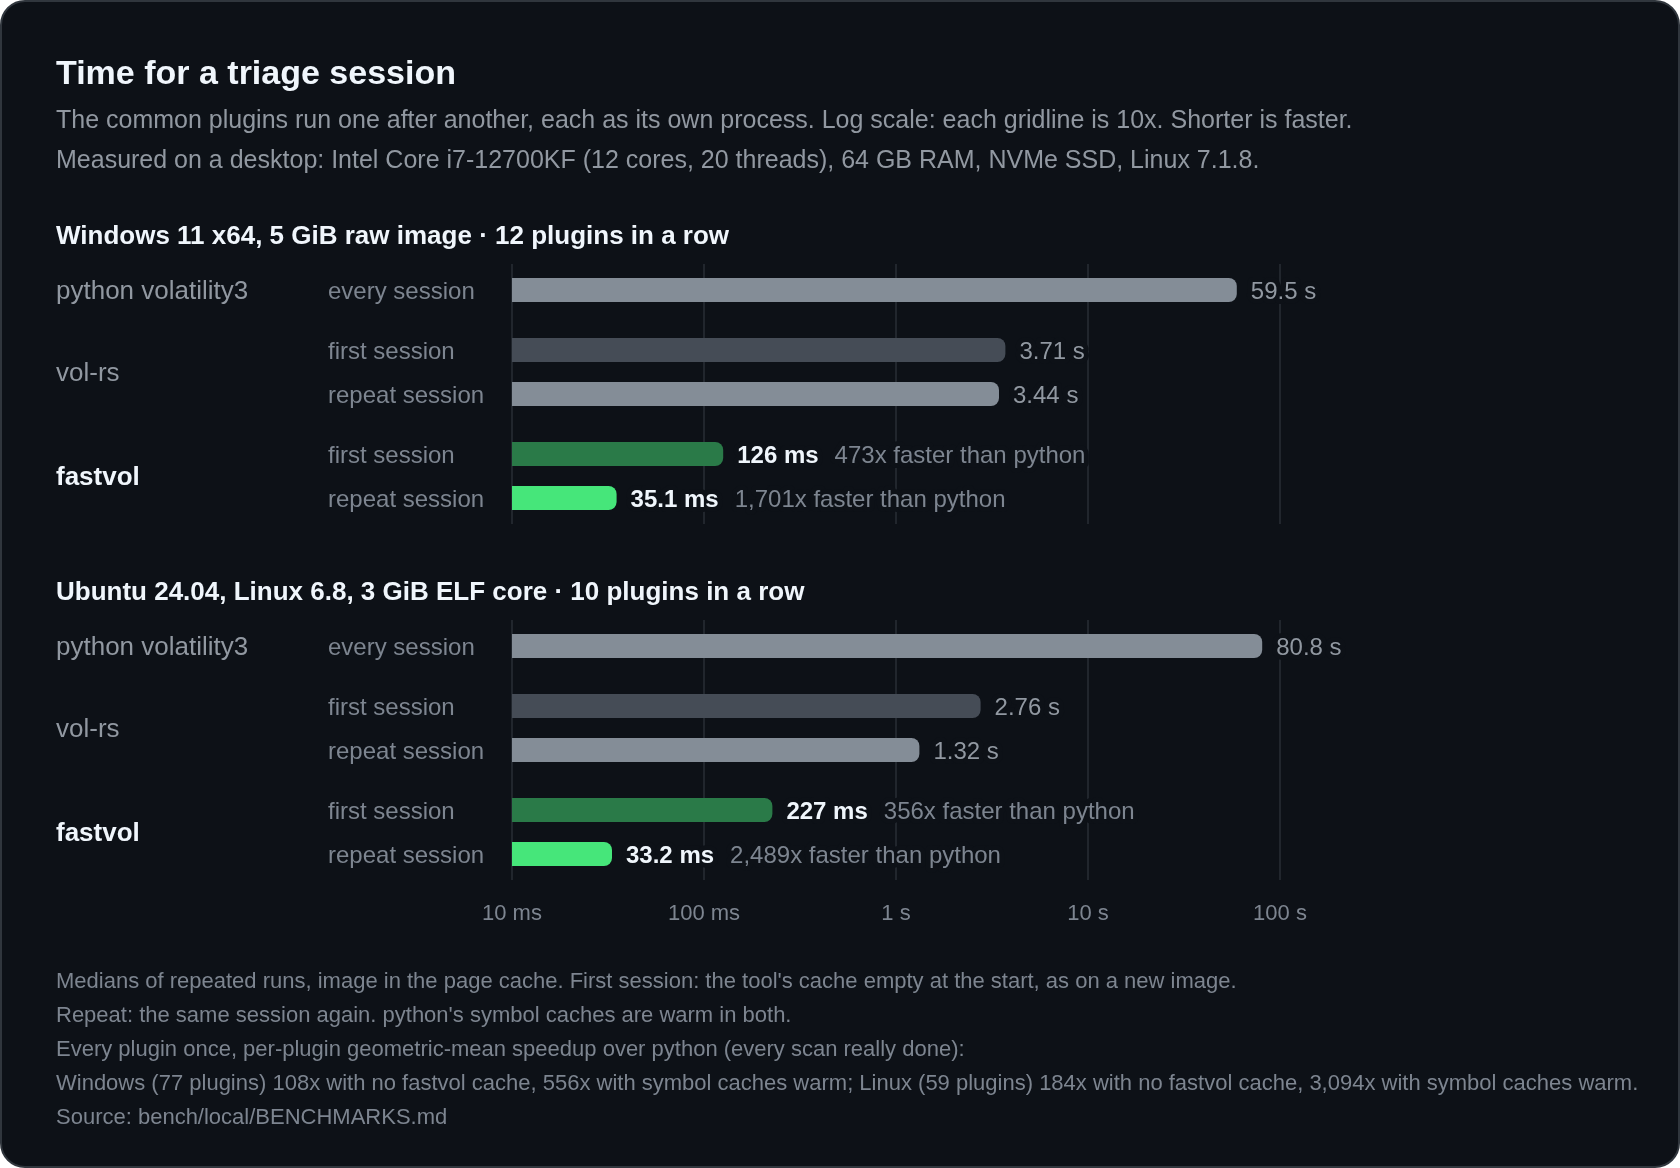
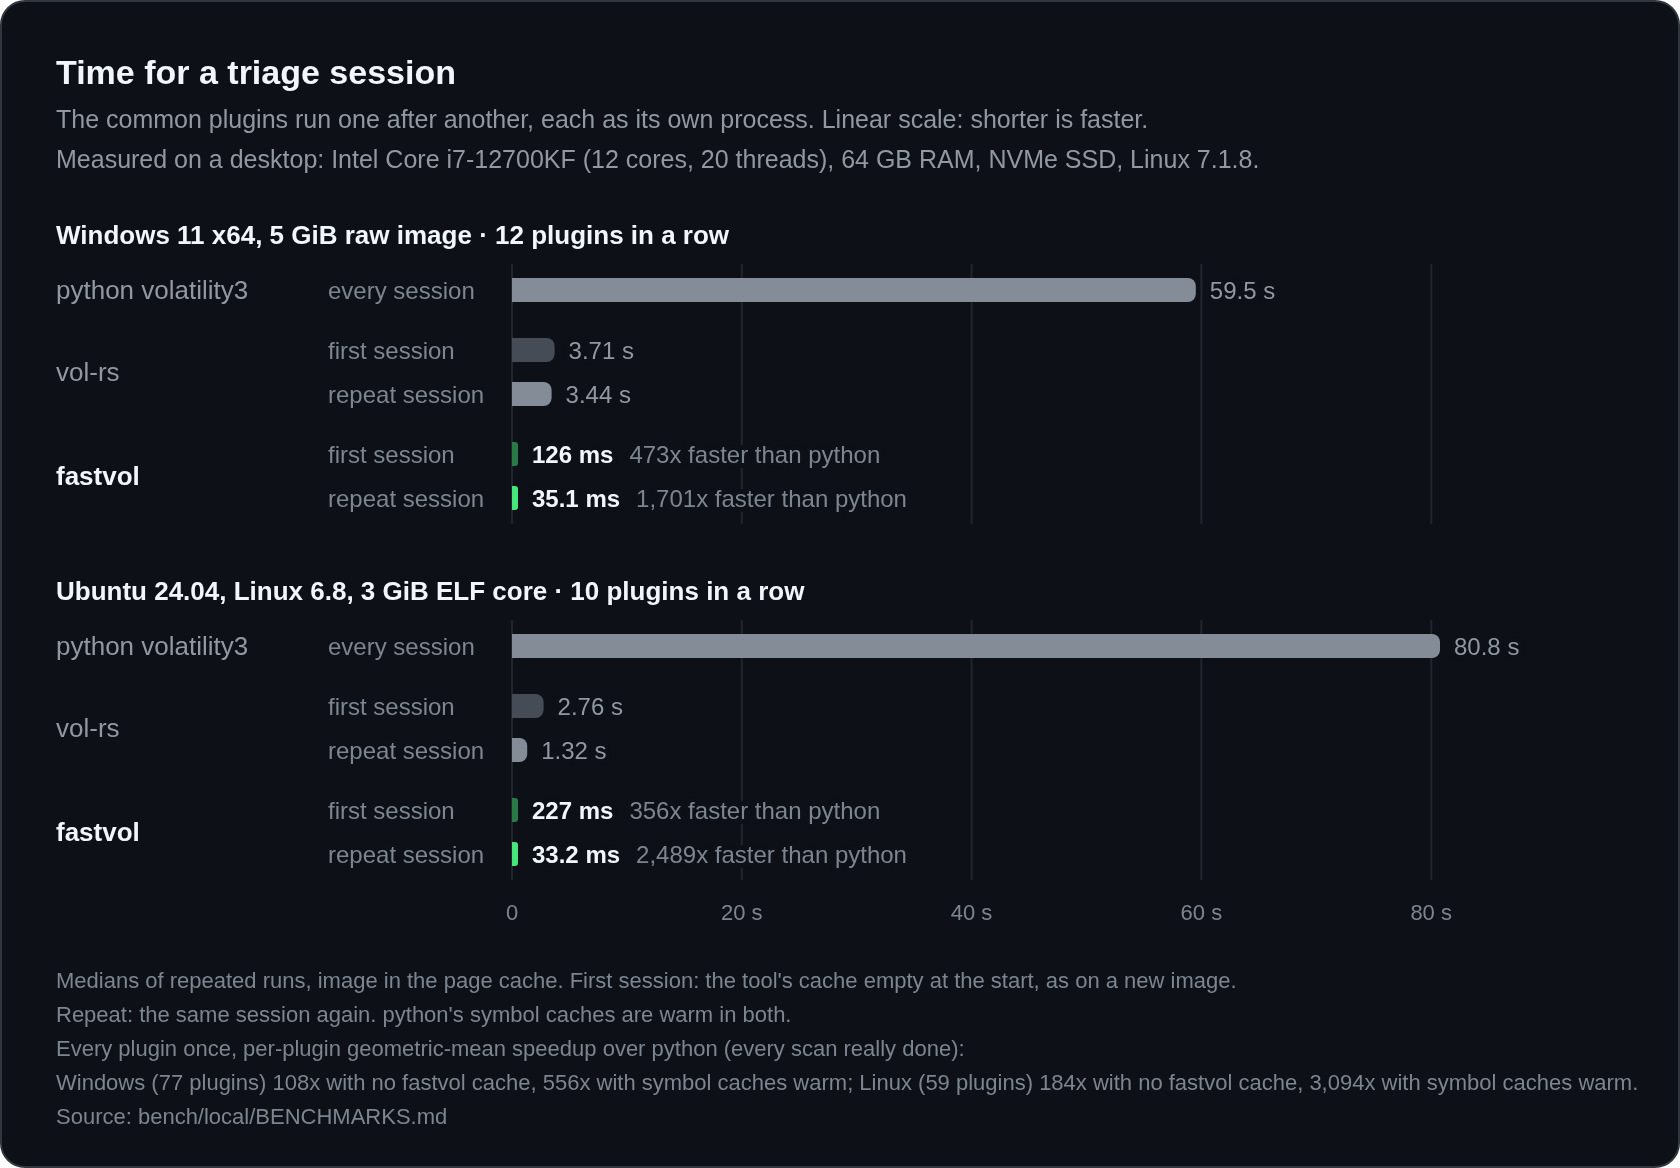
docs(chart): linear time scale for the benchmark chart
Bar length proportional to time (python spans the axis, fastvol is a sliver), axis ending
at the longest bar with ticks every 20 s, a minimum bar width so the shortest bars stay
visible. Replaces the log scale, which compressed a 473x gap into a few gridlines.

diff --git a/docs/assets/build.py b/docs/assets/build.py
@@ -218,7 +218,9 @@ def machine_line(m):
 def build_chart():
     S = load_summary()
     W = 840
-    X_TOOL, X_RUN, X0, DECADE = 28, 164, 256, 96.0   # bars start at X0, 10x per DECADE px
+    X_TOOL, X_RUN, X0 = 28, 164, 256   # bars start at X0
+    BAR_W = W - X0 - 120               # linear scale: the axis maximum is BAR_W px
+    MIN_BAR = 3                        # the shortest bars stay visible
     ROW, BAR, GROUP_GAP = 22, 12, 8
     panels, values = [], []
     for os_name, image in PANELS:
@@ -240,15 +242,16 @@ def build_chart():
         values += [py, f["vr"]["total"], s2["vr"]["total"], f["fv"]["total"], s2["fv"]["total"]]
     if not panels:
         sys.exit(f"build.py: no triage results in {SUMMARY}")
-    lo = math.floor(math.log10(min(values)))
-    hi = math.ceil(math.log10(max(values)))
-    grid_ticks = [10.0 ** k for k in range(lo, hi + 1)]
+    # the longest bar spans the axis; ticks every 1, 2 or 5 x 10^k (at most 5 steps)
+    top_v = max(values)
+    step = next(m * 10 ** k for k in range(-3, 6) for m in (1, 2, 5) if top_v / (m * 10 ** k) <= 5)
+    grid_ticks = [i * step for i in range(int(top_v // step) + 1)]
 
     def x_of(v):
-        return X0 + (math.log10(v) - lo) * DECADE
+        return X0 + v / top_v * BAR_W
 
     def tick_label(v):
-        return f"{v:,.0f} s" if v >= 1 else f"{v * 1e3:,.0f} ms"
+        return "0" if v == 0 else f"{v:,.0f} s" if v >= 1 else f"{v * 1e3:,.0f} ms"
 
     rounds = S.get("rounds", {})
     gm = [f"{o.capitalize()} ({rounds[o]['plugins']} plugins) {fmt_factor(rounds[o]['speedup']['fv_cold/py']['geomean'])} "
@@ -273,8 +276,8 @@ def build_chart():
                         rows_svg.append(f'<text x="{X_TOOL}" y="{ty + 4.5:.1f}" class="{cls}">{tool}</text>')
                     rows_svg.append(f'<text x="{X_RUN}" y="{cy + 4.5:.1f}" class="run">{run}</text>')
                     fill = t[kind + ("_soft" if run == "first session" else "")]
-                    x1 = max(x_of(v), X0 + 6)
-                    r = 4
+                    x1 = max(x_of(v), X0 + MIN_BAR)
+                    r = min(4, (x1 - X0) / 2)
                     yb = cy - BAR / 2
                     rows_svg.append(
                         f'<path fill="{fill}" d="M{X0} {yb:.1f}H{x1 - r:.1f}A{r} {r} 0 0 1 {x1:.1f} {yb + r:.1f}'
@@ -311,7 +314,7 @@ def build_chart():
         head = [
             f'<rect x=".5" y=".5" width="{W - 1}" height="{H - 1}" rx="12" fill="{t["bg"]}" stroke="{t["border"]}"/>',
             f'<text x="{X_TOOL}" y="42" class="title">{title}</text>',
-            f'<text x="{X_TOOL}" y="64" class="sub">The common plugins run one after another, each as its own process. Log scale: each gridline is 10x. Shorter is faster.</text>',
+            f'<text x="{X_TOOL}" y="64" class="sub">The common plugins run one after another, each as its own process. Linear scale: shorter is faster.</text>',
             f'<text x="{X_TOOL}" y="84" class="sub">{esc(machine_line(S["machine"]))}</text>',
         ]
         style = f"""<style>

diff --git a/README.md b/README.md
@@ -31,7 +31,7 @@
 <p align="center">
   <picture>
     <source media="(prefers-color-scheme: dark)" srcset="docs/assets/benchmark-dark.svg">
-    <img alt="Bar chart on a log scale of the time for a triage session (the common plugins run one after another), measured on an Intel Core i7-12700KF desktop. Windows 11, 12 plugins: python volatility3 59.5 s; vol-rs 3.71 s on a first session and 3.44 s on a repeat; fastvol 126 ms and 35.1 ms. Linux 6.8, 10 plugins: python 80.8 s; vol-rs 2.76 s and 1.32 s; fastvol 227 ms and 33.2 ms." src="docs/assets/benchmark.svg" width="840">
+    <img alt="Bar chart, linear time scale, of a triage session (the common plugins run one after another), measured on an Intel Core i7-12700KF desktop. Windows 11, 12 plugins: python volatility3 59.5 s; vol-rs 3.71 s on a first session and 3.44 s on a repeat; fastvol 126 ms and 35.1 ms. Linux 6.8, 10 plugins: python 80.8 s; vol-rs 2.76 s and 1.32 s; fastvol 227 ms and 33.2 ms." src="docs/assets/benchmark.svg" width="840">
   </picture>
 </p>
 
